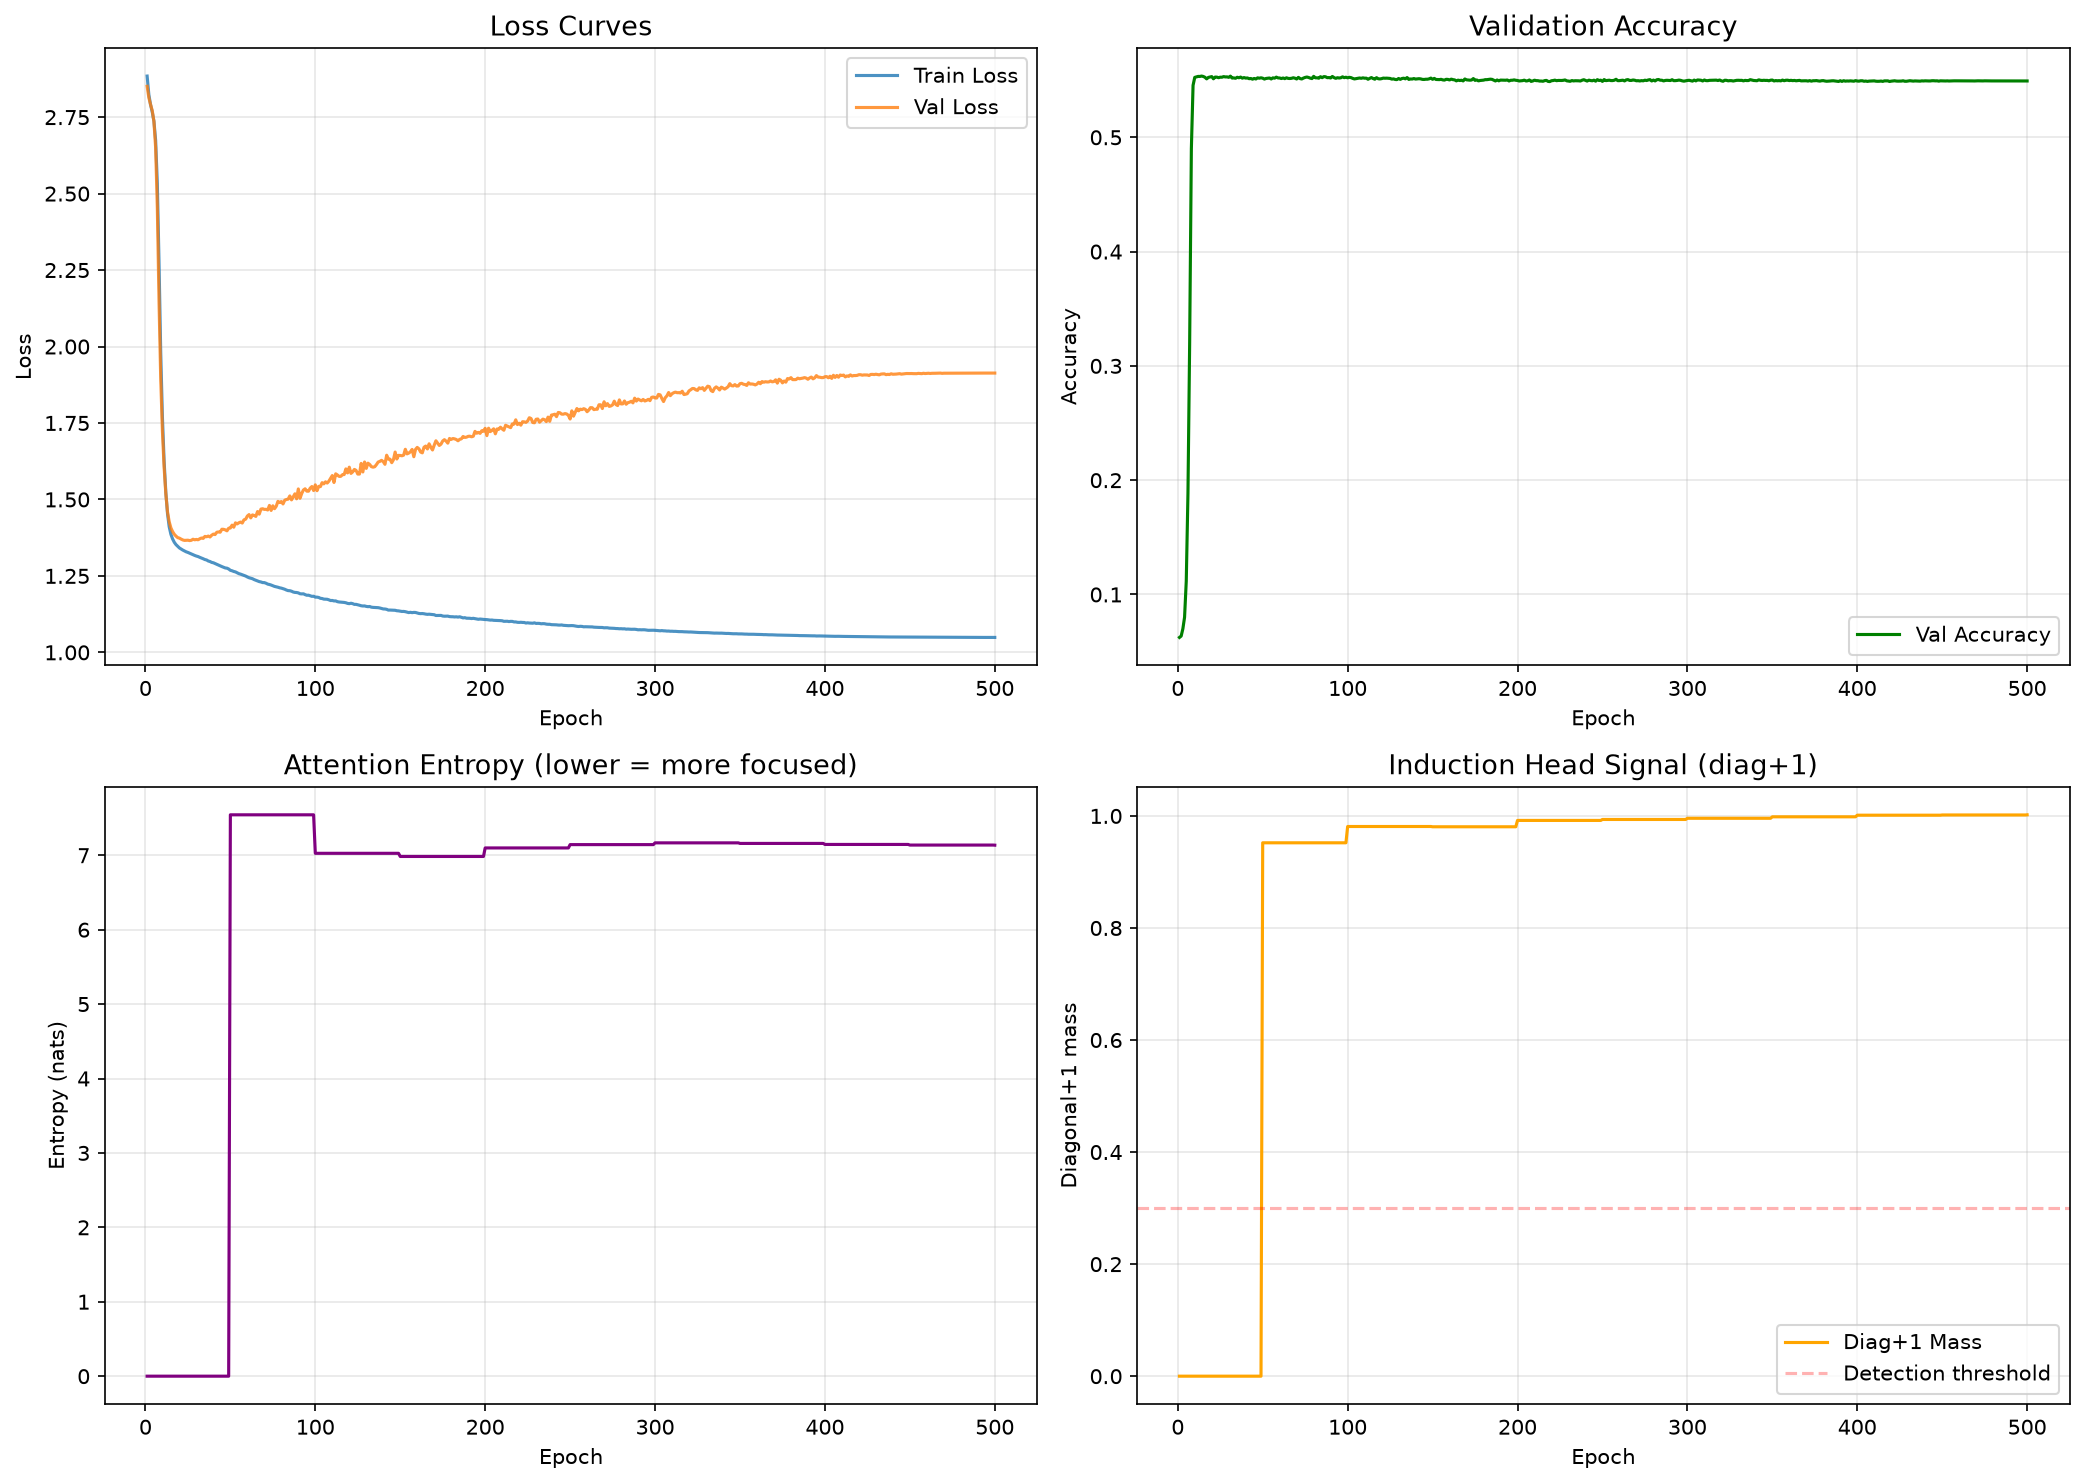
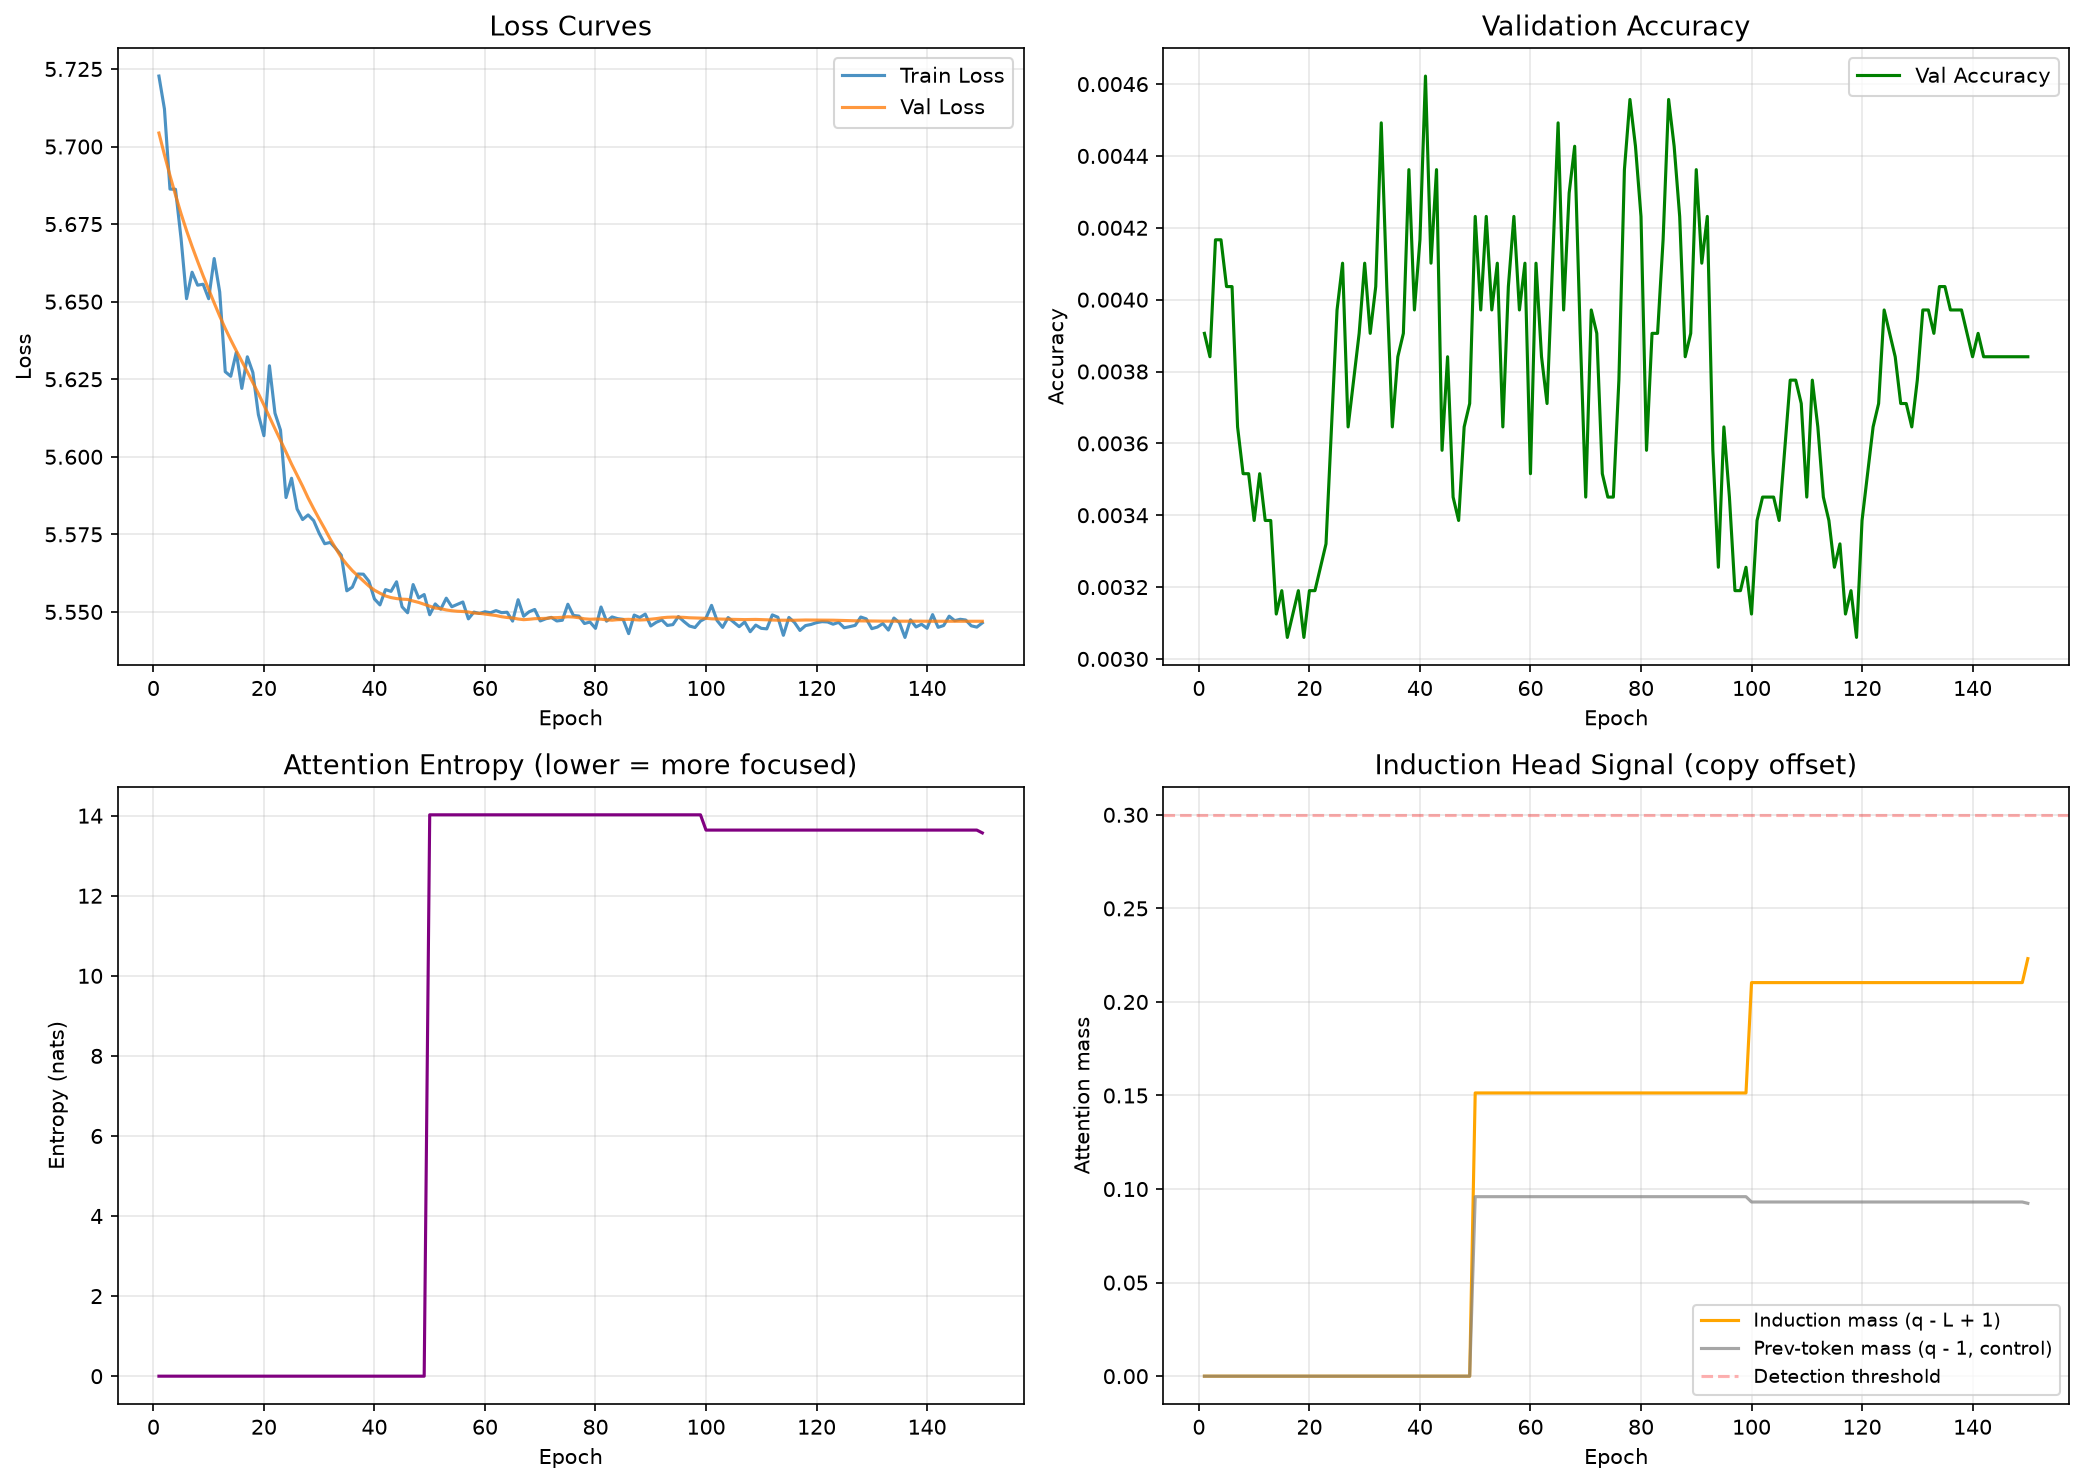
docs(record): the GPU finding, the task-design consequence and the regenerated figure
The standard-scale GPU run (issue #169) confirmed heads with the corrected
detector - 3 per seed, copy-offset mass 0.95 - and the dissociation probe
says the copy follows the *position*, not the previous occurrence of the
same token (period mass 0.91 vs content mass 0.03, 3/3 seeds). The heads
are in the first layer and the K-composition between layers is ~0.1, so
there is no two-step circuit: this task hands the model a positional
shortcut, and the claim is renamed accordingly (prefix-copying head at
offset L-1) with the content-based task scheduled for v1.1.

- the research plan's Rung 1 headline is no longer earned by this task, and
  says so next to the measurement;
- the training-curves figure is regenerated with the corrected metric (the
  old one plotted the previous-token mass under the label 'diag+1');
- 'make figures' now writes a scratch manifest, so regenerating the
  figures can no longer overwrite the tracked flagship manifest with a
  dirty-tree record;
- markdownlint fixes (a blockquote split, a line starting with '#168').

diff --git a/portfolio/paper/main.tex b/portfolio/paper/main.tex
@@ -417,7 +417,6 @@ positive control, re-measured 2026-10-19, reads \emph{mixed} (2 of 3
 seeds sparse: $k_{\mathrm{energy},90}$ = 5, 8 and 7 of 29), which is why
 that probe is a footnote here rather than a second headline.
 
-
 \subsection{Capstone Joint Training Dissociation}
 The capstone shakedown (2000 steps, $d_\text{model}=256$, 4L, 8H, $P=113$)
 confirms the dissociation under joint training:

diff --git a/00_meta/03_progress-log.md b/00_meta/03_progress-log.md
@@ -13,6 +13,15 @@ Dated journal. One line per session: *what* I studied, *what* I built, *what* I 
 - Open question:
 -->
 
+## 2026-10-20 — The GPU run: heads DO form at standard scale — and the probe says the copy is positional
+
+- **Ran** (the actual GPU hours, Kaggle, free tier): the standard-scale run of issue #169 with the corrected detector — `exp1 --standard --fresh-batches --seeds 0,1,2`, 384k optimizer steps per seed, on a T4. The pilot cell measured the GPU first (90 steps/s → 71 min per seed, 3.6 h for three seeds), so the budget was planned from a measurement rather than the notebook's old "~2h" guess.
+- **The result, first half**: the detector confirms **3 heads per seed** (3/3 seeds), with a copy-offset mass of **0.945 ± 0.004** — and the previous-token control stays at **0.033 ± 0.013**, i.e. the signal is on the copy offset and not on the old `q-1` one. The retracted "0 / 8" was indeed a detector artifact: at standard scale the model *does* form heads, within 50 epochs.
+- **The result, second half — and it is the interesting one**: the heads are in the **first layer** (3 in L0, 0 above it), the K-composition between layers is **0.064–0.110** (below the 0.4 confirmation bar) and the L0 duplicate-token mass is **0.017–0.022**. So there is **no two-step circuit**: what the model learned is a single head copying from the fixed offset `q-(L-1)`.
+- **The dissociation probe says why, and it could not have been known before**: on a *perfectly periodic* task the previous occurrence of the current token is always at `q-L`, so "copy from the previous occurrence of the same token" and "copy from the fixed offset" are the same function. The probe (second half = permuted prefix) separates them: the model's mass sits on the **position** target (0.896–0.930) and not on the content target (0.030–0.032) on **3/3 seeds**. The model found the cheaper solution the task allows. The honest name for the head is therefore *prefix-copying head at offset L-1*, not *induction head* — and the repo's own task design is what makes the shortcut available.
+- **A real bug the run exposed**: the early stop fired at epoch 100 while the rolling checkpoint was written every 250 epochs, so the checkpoint the confirmation produced did not exist and the Rung 4 step had nothing to load. Fixed (the confirmation point now writes the checkpoint, with the architecture recorded in it), and the early stop now defaults to the *mechanism* rule — a first-layer copy head is not the circuit the rung is about, so stopping on it answers a different question. The re-run (emergence measurement + full-budget measurement + the cascade on the full-budget model) is in flight.
+- **Open question**: does the mechanism change with budget? The full-budget run (3000 epochs, no early stop) measures the model the cascade analyses: if a content-based L1 head forms later, the answer is "the copy starts positional and becomes inductive"; if not, the task admits no content-based circuit and the *task* has to change (repeats at random distances) before the repo can claim induction at all.
+
 ## 2026-10-19 — Increment 96: the induction detector measured the previous-token head (and the cascade was two models)
 
 - **Studied**: the *measurement* behind every "0 / N induction heads" number this repository has published. Two detectors, both wrong: exp1's measured the attention mass on `q → q-1` (the previous token) and called it "diag+1", while the copy offset on the `prefix + prefix` task is `q → q-L+1`; exp4's measured `attn_probs.diagonal(offset=1)` — the strict upper triangle of a *causal* softmax, identically zero, so it could never fire on any model. The defect survived a year of audits because the planted tests planted the same wrong pattern: a test that encodes the bug passes the bug.

diff --git a/07_capstone/notes/mp-94-positive-control-results.md b/07_capstone/notes/mp-94-positive-control-results.md
@@ -17,27 +17,27 @@ consumes: [ADR-0028, 07_capstone/_MOC]
 > its provenance stay valid; the label does not. The checkpoints are gone, so the
 > re-measurement is a re-run (now a one-command GPU job), not a re-analysis.
 > See the Rung 2 section of portfolio/RESULTS.md for the reversal.
-
+>
 > **2026-10-19 — the probe was re-measured; the label is MIXED, not SPARSE.**
 > Issue #196 re-ran the P=59 probe with the post-audit energy metric:
 > `results/grokking_p59_repo_energy.json` (3 seeds, CPU, 5000 epochs,
 > batch 128, weight decay 1.0, cosine LR — the **repo protocol**, not the
 > Nanda-faithful one this note's body claims). Per seed:
->
-> | Seed | val accuracy | k_energy_90 (of 29) | fraction | energy_sparse |
-> |------|--------------|---------------------|----------|---------------|
-> | 42 | 1.0000 | 5 | 0.172 | sparse |
-> | 43 | 0.9918 | 8 | 0.276 | not sparse |
-> | 44 | 0.9988 | 7 | 0.241 | sparse |
->
-> **Verdict: 2 of 3 seeds sparse — MIXED.** The classification is knife-edge
-> (the `is_sparse` convention is "90% of the energy in fewer than 25% of the
-> frequencies": seed 44 sits at 0.241, seed 43 at 0.276), so the honest
-> reading is "2/3, with one seed's solution slightly denser" — not the
-> "SPARSE" label a majority rule would have produced. No re-run was attempted
-> to move the label: re-running a seed until it agrees is selection, not
-> measurement. The probe's job (a cheap positive control for the recipe) is
-> done by P=113, which is 3/3 on both protocols.
+
+| Seed | val accuracy | k_energy_90 (of 29) | fraction | energy_sparse |
+|------|--------------|---------------------|----------|---------------|
+| 42 | 1.0000 | 5 | 0.172 | sparse |
+| 43 | 0.9918 | 8 | 0.276 | not sparse |
+| 44 | 0.9988 | 7 | 0.241 | sparse |
+
+**Verdict: 2 of 3 seeds sparse — MIXED.** The classification is knife-edge
+(the `is_sparse` convention is "90% of the energy in fewer than 25% of the
+frequencies": seed 44 sits at 0.241, seed 43 at 0.276), so the honest
+reading is "2/3, with one seed's solution slightly denser" — not the
+"SPARSE" label a majority rule would have produced. No re-run was attempted
+to move the label: re-running a seed until it agrees is selection, not
+measurement. The probe's job (a cheap positive control for the recipe) is
+done by P=113, which is 3/3 on both protocols.
 
 ## Experiment
 

diff --git a/07_capstone/research-plan.md b/07_capstone/research-plan.md
@@ -21,6 +21,22 @@ Ordered cheapest/highest-signal → more ambitious. Each is a defensible standal
 - **Compute:** minutes to a couple hours on one GPU.
 - **Headline:** "Induction heads emerge and I show, causally (ablation/patching), that they implement `[A][B]...[A]->[B]`."
 - **Reference:** Olsson, Elhage, Nanda et al., Transformer Circuits Thread (Anthropic), 2022.
+- **Measured 2026-10-20 (GPU, standard scale, 3 seeds):** the detector confirms a
+  head — three per seed, copy-offset mass 0.95, within 50 epochs — but the head is in
+  the **first layer** and the K-composition between layers is ~0.1, so there is **no
+  two-step circuit**. The dissociation probe (a second half that is a *permuted* copy
+  of the prefix) says the copy follows the **fixed offset**, not the previous
+  occurrence of the same token (period mass 0.91 vs content mass 0.03, 3/3 seeds).
+  **The task, as designed, admits a positional shortcut**: on a perfectly periodic
+  sequence the previous occurrence of the current token is always at `q-L`, so
+  "copy by content" and "copy by offset" are the same function in-distribution.
+  The honest name for what this rung measures is therefore *prefix-copying head at
+  offset L-1*, and the headline above is **not earned** by this task.
+- **Open question (v1.1):** a task that *forces* content matching — repeated
+  tokens at *varying* distances, so the copy distance is not predictable from the
+  position — is the only way to make the induction claim testable here. That is a
+  task-design increment, not a scale increment: no amount of epochs or parameters
+  removes a shortcut the task hands the model.
 
 ### Rung 2 — Grokking on Modular Addition (PRIMARY FLAGSHIP ★)
 

diff --git a/portfolio/RESULTS.md b/portfolio/RESULTS.md
@@ -455,7 +455,7 @@ dissociation probe added 2026-10-19.
 
 **Reference**: Olsson et al., "In-context Learning and Induction Heads," Transformer Circuits Thread (Anthropic), 2022.
 
-**Figures**: `portfolio/figures/exp1_training_bump.png`
+**Figures**: `portfolio/figures/exp1_training_bump.png` — regenerated 2026-10-20 with the corrected detector: the fourth panel is now the **copy-offset** induction mass with the previous-token mass as a control (the old figure plotted the previous-token mass under the label "diag+1"). Quick scale (2L/4H, d_model 24, 150 epochs, fresh batches, seed 0), the configuration the `figures` target pins.
 
 ---
 
@@ -744,9 +744,9 @@ positive control grokked with a sparse Fourier circuit (Rung 2 above), so the
 question "where is the boundary between the sparse circuit and its absence across
 protocol deviations?" is now answerable by a sweep instead of speculation. The
 sweep runner is refactored and tested (delegates to exp2's own protocol code,
-budgets in optimizer steps, records the energy metric); the run itself -- issue
-#168 -- is one command on the free GPU tier. No numbers are cited here until that
-sweep's manifests land.
+budgets in optimizer steps, records the energy metric); the run itself
+(issue #168) is one command on the free GPU tier. No numbers are cited here
+until that sweep's manifests land.
 
 **Moved to v1.1 on 2026-10-19.** The sweep is ten cells × three seeds × 20k
 full-batch steps at P=113 — one to two weeks of the free GPU quota — while the
